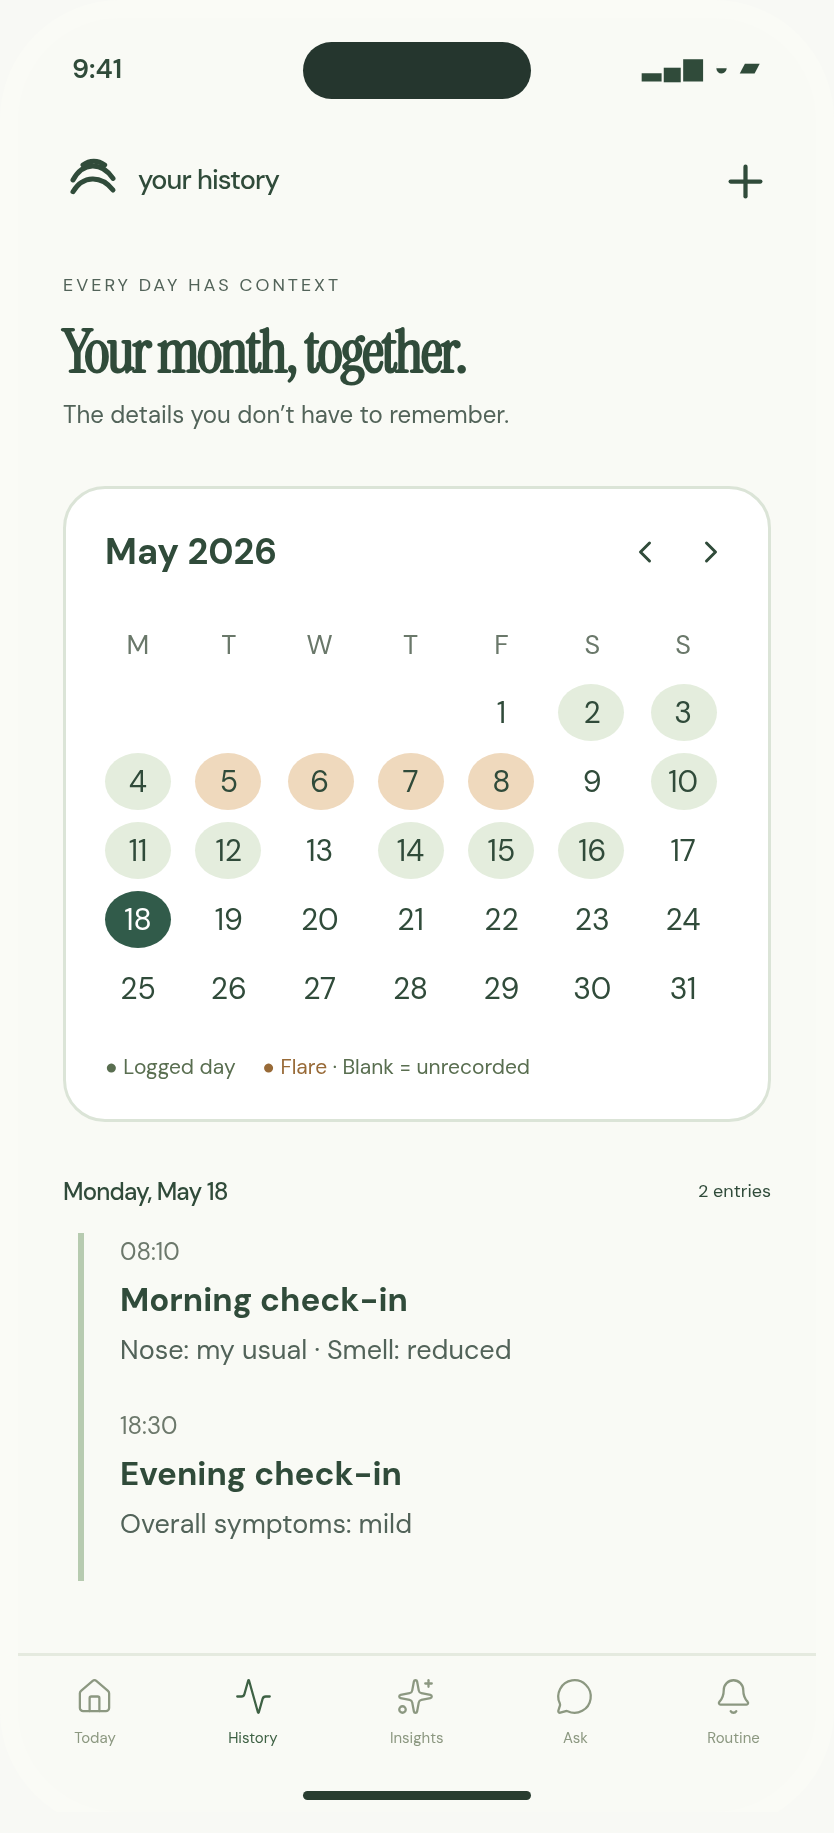
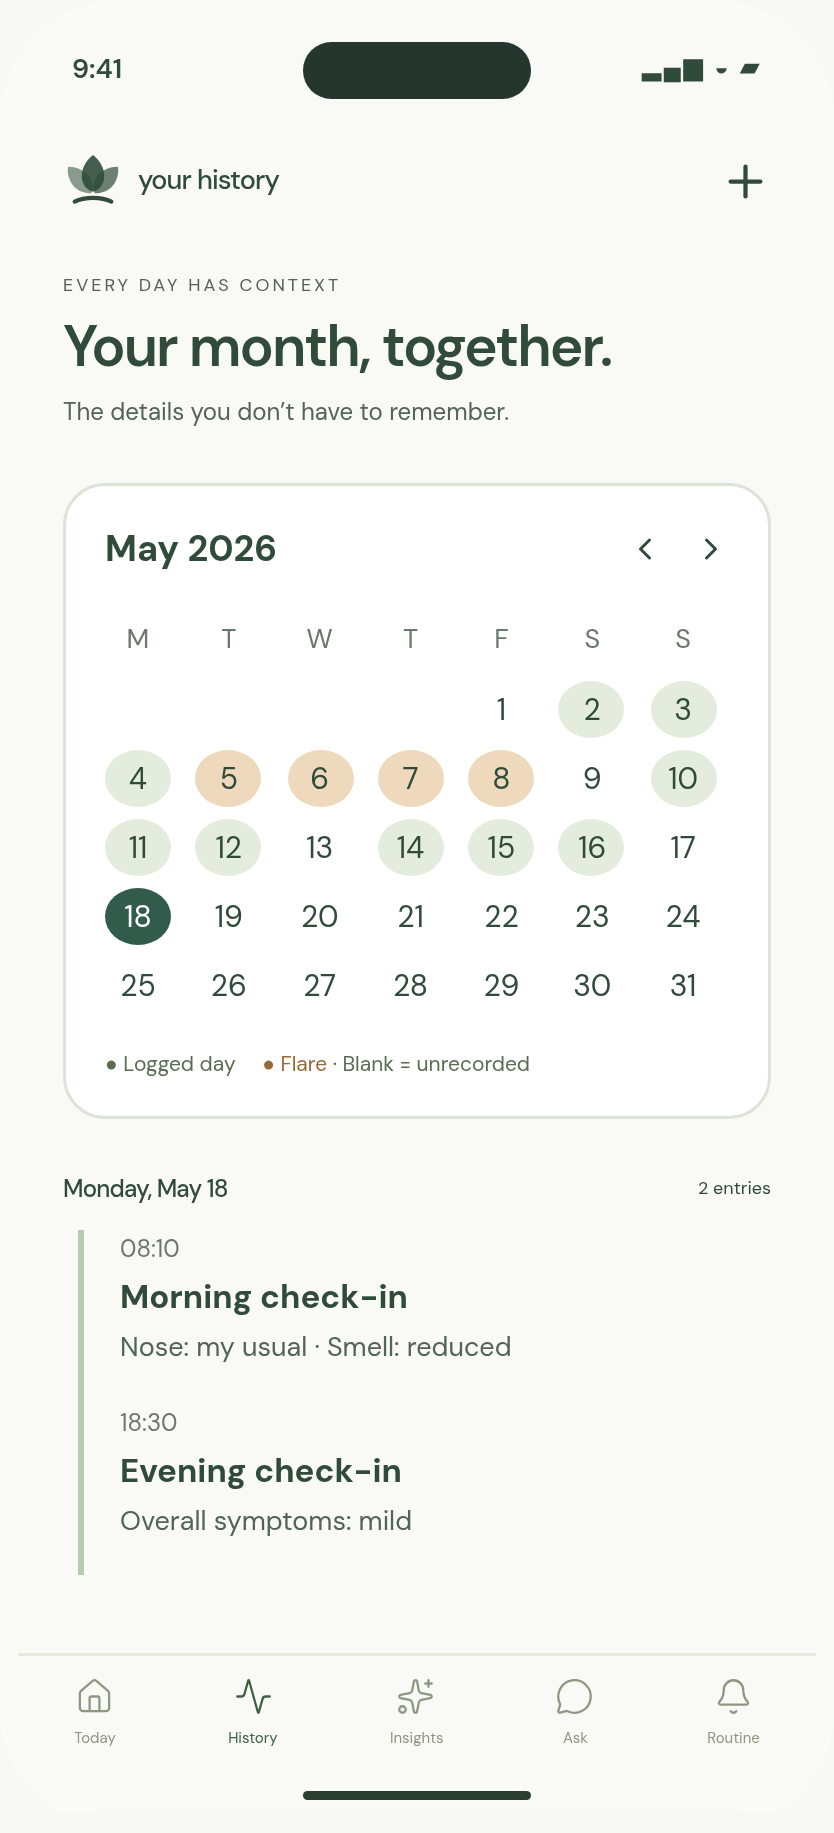
Rebrand website as AirBloom with clean typography and sharper hero

diff --git a/apps/web/src/lib/site.ts b/apps/web/src/lib/site.ts
@@ -1,7 +1,7 @@
 import { resolveSiteConfig } from "./site-config";
 
 export const site = {
-  name: "Sinus Companion",
+  name: "AirBloom",
   description:
     "A daily sinusitis companion in development: symptom tracking, treatment reminders, personal patterns, and AI support grounded in your history. Get early access.",
   ...resolveSiteConfig({
@@ -17,9 +17,9 @@ export const site = {
 
 export const faqs = [
   {
-    question: "What is Sinus Companion?",
+    question: "What is AirBloom?",
     answer:
-      "Sinus Companion is a sinus symptom tracking app in development for people with recurring or chronic sinus symptoms. It connects quick check-ins, treatment logs, local conditions, and personal patterns, with an AI companion designed to answer questions using your own history. Join the waitlist for early access on iOS and Android.",
+      "AirBloom is a sinus symptom tracking app in development for people with recurring or chronic sinus symptoms. It connects quick check-ins, treatment logs, local conditions, and personal patterns, with an AI companion designed to answer questions using your own history. Join the waitlist for early access on iOS and Android.",
   },
   {
     question: "How does the daily outlook work?",
@@ -42,9 +42,9 @@ export const faqs = [
       "No. Start with a quick check-in: clear, my usual, or worse than usual. Add symptoms, treatments, or a flare when useful. Available local conditions can be collected automatically after you choose a location; supported sleep integrations would require your permission. Missing entries stay missing, rather than being counted as symptom-free days.",
   },
   {
-    question: "Can Sinus Companion diagnose or treat sinusitis?",
+    question: "Can AirBloom diagnose or treat sinusitis?",
     answer:
-      "No. Sinus Companion is designed for personal tracking, education, and understanding your records. It does not diagnose sinusitis, prescribe treatment, or replace professional medical care. Keep following your clinician’s instructions and seek medical advice for persistent or worsening symptoms.",
+      "No. AirBloom is designed for personal tracking, education, and understanding your records. It does not diagnose sinusitis, prescribe treatment, or replace professional medical care. Keep following your clinician’s instructions and seek medical advice for persistent or worsening symptoms.",
   },
   {
     question: "How much will it cost?",
@@ -54,7 +54,7 @@ export const faqs = [
   {
     question: "Is the app available on iPhone and Android?",
     answer:
-      "Sinus Companion is in development for iOS and Android and is not available to download yet. Join the waitlist and choose your device to hear when access opens. The app screens on this website are illustrative previews, not a live medical service.",
+      "AirBloom is in development for iOS and Android and is not available to download yet. Join the waitlist and choose your device to hear when access opens. The app screens on this website are illustrative previews, not a live medical service.",
   },
   {
     question: "What happens when I join the waitlist?",

diff --git a/apps/web/src/app/globals.css b/apps/web/src/app/globals.css
@@ -6,7 +6,7 @@
   --line: #dfe4da;
   --mint: #e9efe4;
   --peach: #edd1ad;
-  --serif: "Instrument Serif", Georgia, serif;
+  --serif: "DM Sans", Arial, sans-serif;
   --sans: "DM Sans", Arial, sans-serif;
 }
 * {
@@ -4237,7 +4237,7 @@ h4 em {
 
 /* Daily companion: warm editorial type, direct stories, quieter interfaces. */
 :root {
-  --serif: "Instrument Serif", Georgia, serif;
+  --serif: "DM Sans", Arial, sans-serif;
   --body: #546258;
 }
 h1,
@@ -5768,3 +5768,32 @@ h4 em {
 .phone-routine .routine-item > div { font-size: 9px; line-height: 1.25; }
 .phone-routine .routine-summary { font-size: 8px; line-height: 1.4; }
 .phone-routine .routine-followup { font-size: 8px; line-height: 1.4; }
+
+/* AirBloom: clean sans-serif typography and native-resolution hero artwork. */
+:root { --serif: "DM Sans", Arial, sans-serif; }
+h1 em, h2 em, h3 em, h4 em { font-style: normal; font-weight: 500; }
+.brand { letter-spacing: -1px; font-weight: 600; gap: 9px; }
+.brand-light { font-weight: 500; }
+.daily-hero h1 em { font-size: 1em; letter-spacing: inherit; }
+.daily-hero .hero-phone { transform: none; filter: none; margin-top: 0; }
+.daily-hero .hero-phone .phone { width: 300px; height: 625px; }
+.daily-hero .floating-card { transform: none; backdrop-filter: none; background: #fffefa; }
+.daily-hero .float-pattern strong { font-size: 19px; letter-spacing: -.6px; line-height: 1.3; }
+.daily-hero .hero-availability { margin-bottom: 20px; }
+.hero-community { display: flex; align-items: center; gap: 12px; margin: 0 0 25px; }
+.community-mark { display: grid; place-items: center; width: 41px; height: 41px; background: #e6eddd; border: 1px solid #d5dfca; border-radius: 50%; color: #62835c; }
+.community-mark svg { width: 27px; height: 27px; }
+.hero-community > div { display: grid; gap: 4px; }
+.hero-community strong { font-size: 16px; font-weight: 600; letter-spacing: -.4px; }
+.hero-community > div > span { font-size: 10px; color: #60725b; }
+.phone h3 { font-family: var(--sans); font-size: 19px; font-weight: 600; }
+.phone .outlook-card h4 { font-family: var(--sans); font-size: 27px; font-weight: 500; }
+.phone .insight-summary h4 { font-size: 26px; }
+@media (max-width:650px) {
+ .daily-hero .hero-visual { height: 650px; }
+ .daily-hero .hero-phone { margin-left: 0; transform: none; }
+ .daily-hero .float-pattern { top: 110px; width: 137px; right: -6px; }
+ .daily-hero .float-pattern strong { font-size: 16px; }
+ .daily-hero .float-check { bottom: 65px; }
+ .hero-community { margin-bottom: 24px; }
+}

diff --git a/apps/web/src/lib/articles.ts b/apps/web/src/lib/articles.ts
@@ -165,7 +165,7 @@ export const articles: Article[] = [
         title: "Leave with a plan in your own words.",
         paragraphs: [
           "Before the visit ends, ask about anything that is unclear. You can repeat the agreed next steps back in your own words and ask when a follow-up is needed.",
-          "Sinus Companion is being designed to help turn your own records into an editable visit summary. You will choose what to include and share. It is a way to prepare your story, not a clinical assessment.",
+          "AirBloom is being designed to help turn your own records into an editable visit summary. You will choose what to include and share. It is a way to prepare your story, not a clinical assessment.",
         ],
       },
     ],
@@ -229,7 +229,7 @@ export const articles: Article[] = [
       "title": "Can an app predict how my sinusitis will feel today?",
       "paragraphs": [
         "A morning overview can bring your recent entries, current check-in, and local conditions into one place. That is useful context for planning your day, but it is different from a clinically validated personal prediction.",
-        "Sinus Companion’s daily outlook is being designed around this distinction: your own history first, with uncertainty made clear. It will not guarantee a symptom-free day or tell you to change medication because of a forecast."
+        "AirBloom’s daily outlook is being designed around this distinction: your own history first, with uncertainty made clear. It will not guarantee a symptom-free day or tell you to change medication because of a forecast."
       ]
     },
     {
@@ -284,7 +284,7 @@ export const articles: Article[] = [
       "title": "A reminder is not a prescription.",
       "paragraphs": [
         "Choose a reminder label that tells you which existing routine it refers to. Use the timing specified in your treatment instructions; do not change that timing just to fit a notification.",
-        "Sinus Companion’s reminder features are being designed to keep your agreed routine visible. The app will not independently recommend a dose or decide that a symptom score means you need another medicine."
+        "AirBloom’s reminder features are being designed to keep your agreed routine visible. The app will not independently recommend a dose or decide that a symptom score means you need another medicine."
       ]
     },
     {

diff --git a/apps/web/src/app/llms.txt/route.ts b/apps/web/src/app/llms.txt/route.ts
@@ -4,7 +4,7 @@ import { site } from "@/lib/site";
 // A supplemental content index; this file is not an indexing or citation guarantee.
 export function GET() {
   return new Response(
-    `# ${site.name}\n\n> ${site.description}\n\nSinus Companion is being developed for iOS and Android. The website offers early-access signup, not an app download. Product screens contain illustrative records. Daily outlooks are not clinically validated predictions; reminders follow existing care instructions; AI support does not diagnose or prescribe.\n\n${site.demo ? "This is a private development preview. Do not cite illustrative records as real user outcomes.\n\n" : ""}## Guides\n${articles.map((a) => `- [${a.title}](${site.url}/journal/${a.slug}): ${a.answer}`).join("\n")}\n\n## About\n- [Frequently asked questions](${site.url}/#questions)\n- [Waitlist privacy](${site.url}/privacy)\n\nOperated by ${site.operator}. Contact: ${site.contactEmail}. Guides provide general education, cite source material, and have not been clinically reviewed.\n`,
+    `# ${site.name}\n\n> ${site.description}\n\nAirBloom is being developed for iOS and Android. The website offers early-access signup, not an app download. Product screens contain illustrative records. Daily outlooks are not clinically validated predictions; reminders follow existing care instructions; AI support does not diagnose or prescribe.\n\n${site.demo ? "This is a private development preview. Do not cite illustrative records as real user outcomes.\n\n" : ""}## Guides\n${articles.map((a) => `- [${a.title}](${site.url}/journal/${a.slug}): ${a.answer}`).join("\n")}\n\n## About\n- [Frequently asked questions](${site.url}/#questions)\n- [Waitlist privacy](${site.url}/privacy)\n\nOperated by ${site.operator}. Contact: ${site.contactEmail}. Guides provide general education, cite source material, and have not been clinically reviewed.\n`,
     {
       headers: {
         "Content-Type": "text/plain; charset=utf-8",

diff --git a/apps/web/tests/e2e/website.spec.ts b/apps/web/tests/e2e/website.spec.ts
@@ -7,7 +7,7 @@ test("homepage renders search-readable content, FAQ, and no horizontal overflow"
   const errors: string[] = [];
   page.on("pageerror", (e) => errors.push(e.message));
   await page.goto("/");
-  await expect(page).toHaveTitle(/Sinus Companion/);
+  await expect(page).toHaveTitle(/AirBloom/);
   await expect(page.locator("h1")).toContainText("Sinusitis takes enough.");
   await expect(page.locator('meta[name="robots"]')).toHaveAttribute(
     "content",
@@ -17,12 +17,12 @@ test("homepage renders search-readable content, FAQ, and no horizontal overflow"
     2,
   );
   await page
-    .getByText("Can Sinus Companion diagnose or treat sinusitis?", {
+    .getByText("Can AirBloom diagnose or treat sinusitis?", {
       exact: true,
     })
     .click();
   await expect(
-    page.getByText("No. Sinus Companion is designed", { exact: false }),
+    page.getByText("No. AirBloom is designed", { exact: false }),
   ).toBeVisible();
   expect(
     await page.evaluate(
@@ -201,7 +201,7 @@ test("privacy removal records requests honestly and navigation works", async ({
  await expect(page.getByRole("tab", { name: /Your history/ })).toHaveAttribute("aria-selected", "true");
  await expect(page.locator(".tour-panel .phone-history")).toBeVisible();
  await page.goto("/journal/prepare-for-your-ent-appointment");
- const sidebar = page.getByRole("complementary", { name: "Discover Sinus Companion" });
+ const sidebar = page.getByRole("complementary", { name: "Discover AirBloom" });
  await expect(sidebar).toBeVisible();
  if (testInfo.project.name === "desktop") {
  await page.locator(".article-body").scrollIntoViewIfNeeded();

diff --git a/apps/web/src/app/journal/[slug]/page.tsx b/apps/web/src/app/journal/[slug]/page.tsx
@@ -61,7 +61,7 @@ export default async function ArticlePage({
           dateModified: "2026-11-09",
           author: {
             "@type": "Organization",
-            name: "Sinus Companion editorial team",
+            name: "AirBloom editorial team",
             url: site.url,
           },
           publisher: {
@@ -111,7 +111,7 @@ export default async function ArticlePage({
         <h1>{a.title}</h1>
         <p>{a.description}</p>
         <div className="byline">
-          Sinus Companion editorial team · November 9, 2026
+          AirBloom editorial team · November 9, 2026
           <br />
           {site.demo ? "Demo editorial content" : "Educational guide"} · Not
           clinically reviewed
@@ -182,7 +182,7 @@ export default async function ArticlePage({
             <h3>Your story, together.</h3>
             <p>
               Put your symptoms, personal patterns, and medication routines in
-              one place. Get early access to Sinus Companion.
+              one place. Get early access to AirBloom.
             </p>
             <JoinButton>
               Get early access <ArrowRight size={16} />
@@ -191,7 +191,7 @@ export default async function ArticlePage({
         </article>
         <aside
           className="article-product"
-          aria-label="Discover Sinus Companion"
+          aria-label="Discover AirBloom"
         >
           <span className="eyebrow">FROM READING TO REMEMBERING</span>
           <h2>

diff --git a/apps/web/src/app/opengraph-image.tsx b/apps/web/src/app/opengraph-image.tsx
@@ -1,5 +1,6 @@
 import { ImageResponse } from "next/og";
-export const alt = "Sinus Companion — Less sinus guesswork. More living.";
+import { BrandMark } from "@/components/icons";
+export const alt = "AirBloom — Less sinus guesswork. More living.";
 export const size = { width: 1200, height: 630 };
 export const contentType = "image/png";
 export default function Image() {
@@ -16,21 +17,21 @@ export default function Image() {
         position: "relative",
       }}
     >
-      <div style={{ display: "flex", fontSize: 28, marginBottom: 65 }}>
-        sinus companion
+      <div style={{ display: "flex", alignItems: "center", gap: 14, fontSize: 32, marginBottom: 65 }}>
+        <BrandMark width={43} height={43} /> AirBloom
       </div>
       <div
         style={{
           display: "flex",
           flexDirection: "column",
-          fontFamily: "serif",
+          fontFamily: "sans-serif",
           fontSize: 76,
           letterSpacing: -3,
           lineHeight: 1.05,
         }}
       >
         <span>Less sinus guesswork.</span>
-        <span style={{ fontStyle: "italic", color: "#6d846d" }}>
+        <span style={{ fontStyle: "normal", color: "#6d846d" }}>
           More living.
         </span>
       </div>

diff --git a/apps/web/src/components/footer.tsx b/apps/web/src/components/footer.tsx
@@ -10,7 +10,7 @@ export function Footer() {
             <Link className="brand" href="/">
               <BrandMark />
               <span>
-                sinus<span className="brand-light">companion</span>
+                Air<span className="brand-light">Bloom</span>
               </span>
             </Link>
             <p>A little clarity. More room for life.</p>
@@ -29,11 +29,11 @@ export function Footer() {
           </span>
         </div>
         <div className="footer-bottom">
-          <span>© {new Date().getFullYear()} Sinus Companion</span>
+          <span>© {new Date().getFullYear()} AirBloom</span>
           <span>Your day. Your patterns. Your companion.</span>
         </div>
         <p className="health-note">
-          Sinus Companion is being developed for personal tracking and
+          AirBloom is being developed for personal tracking and
           education. It does not provide diagnosis or treatment and is not a
           substitute for professional medical advice. App screens are
           illustrative concepts; features may change.

diff --git a/apps/web/src/app/page.tsx b/apps/web/src/app/page.tsx
@@ -81,7 +81,7 @@ export default function Home() {
               "@type": "WebPage",
               "@id": `${site.url}/#webpage`,
               url: site.url,
-              name: "Sinus Companion — Your Daily Sinusitis Companion",
+              name: "AirBloom — Your Daily Sinusitis Companion",
               description: site.description,
               isPartOf: { "@id": `${site.url}/#website` },
               about: {
@@ -132,6 +132,7 @@ export default function Home() {
               <span className="status-dot" /> In development for iOS & Android.
               Join the waitlist.
             </p>
+            <div className="hero-community"><span className="community-mark"><BrandMark /></span><div><strong>12k+ users</strong><span>One shared goal. More room for life.</span></div></div>
             <div className="hero-promises">
               <span>
                 <Check size={14} /> Quick check-ins

diff --git a/apps/web/src/components/icons.tsx b/apps/web/src/components/icons.tsx
@@ -2,18 +2,10 @@ import type { SVGProps } from "react";
 export function BrandMark(props: SVGProps<SVGSVGElement>) {
   return (
     <svg viewBox="0 0 36 36" fill="none" {...props}>
-      <path
-        d="M6 18c6-11 17-11 24-1M6 25c6-10 17-10 24-1"
-        stroke="currentColor"
-        strokeWidth="3"
-        strokeLinecap="round"
-      />
-      <path
-        d="M12 9c4-3 9-3 13 0"
-        stroke="currentColor"
-        strokeWidth="3"
-        strokeLinecap="round"
-      />
+      <path d="M18 25C10 23 8 11 18 3c10 8 8 20 0 22Z" fill="currentColor" opacity=".9" />
+      <path d="M17 26C7 26 2 18 3 10c10 0 17 8 14 16Z" fill="currentColor" opacity=".55" />
+      <path d="M19 26c10 0 15-8 14-16-10 0-17 8-14 16Z" fill="currentColor" opacity=".7" />
+      <path d="M7 31c6-3 16-3 22 0" stroke="currentColor" strokeWidth="2.5" strokeLinecap="round" />
     </svg>
   );
 }

diff --git a/apps/web/src/app/layout.tsx b/apps/web/src/app/layout.tsx
@@ -3,8 +3,6 @@ import "@fontsource/dm-sans/400.css";
 import "@fontsource/dm-sans/500.css";
 import "@fontsource/dm-sans/600.css";
 import "@fontsource/dm-sans/700.css";
-import "@fontsource/instrument-serif/400.css";
-import "@fontsource/instrument-serif/400-italic.css";
 import "./globals.css";
 import { Header } from "@/components/header";
 import { Footer } from "@/components/footer";
@@ -14,8 +12,8 @@ import { site } from "@/lib/site";
 export const metadata: Metadata = {
   metadataBase: new URL(site.url),
   title: {
-    default: "Sinus Companion — Sinusitis Tracker & Daily Support",
-    template: "%s | Sinus Companion",
+    default: "AirBloom — Sinusitis Tracker & Daily Support",
+    template: "%s | AirBloom",
   },
   description: site.description,
   applicationName: site.name,

diff --git a/apps/web/src/components/app-preview.tsx b/apps/web/src/components/app-preview.tsx
@@ -97,7 +97,7 @@ export function AppPreview({
           <>
             <div className="app-top">
               <span className="app-wordmark">
-                <BrandMark /> sinus companion
+                <BrandMark /> AirBloom
               </span>
               <span className="app-avatar">J</span>
             </div>
@@ -419,7 +419,7 @@ export function AppPreview({
             <p className="app-subtitle">Your story. Ready to share.</p>
             <div className="visit-paper">
               <span className="app-wordmark">
-                <BrandMark /> sinus companion
+                <BrandMark /> AirBloom
               </span>
               <div className="paper-rule" />
               <span className="app-date">PERSONAL VISIT SUMMARY</span>
